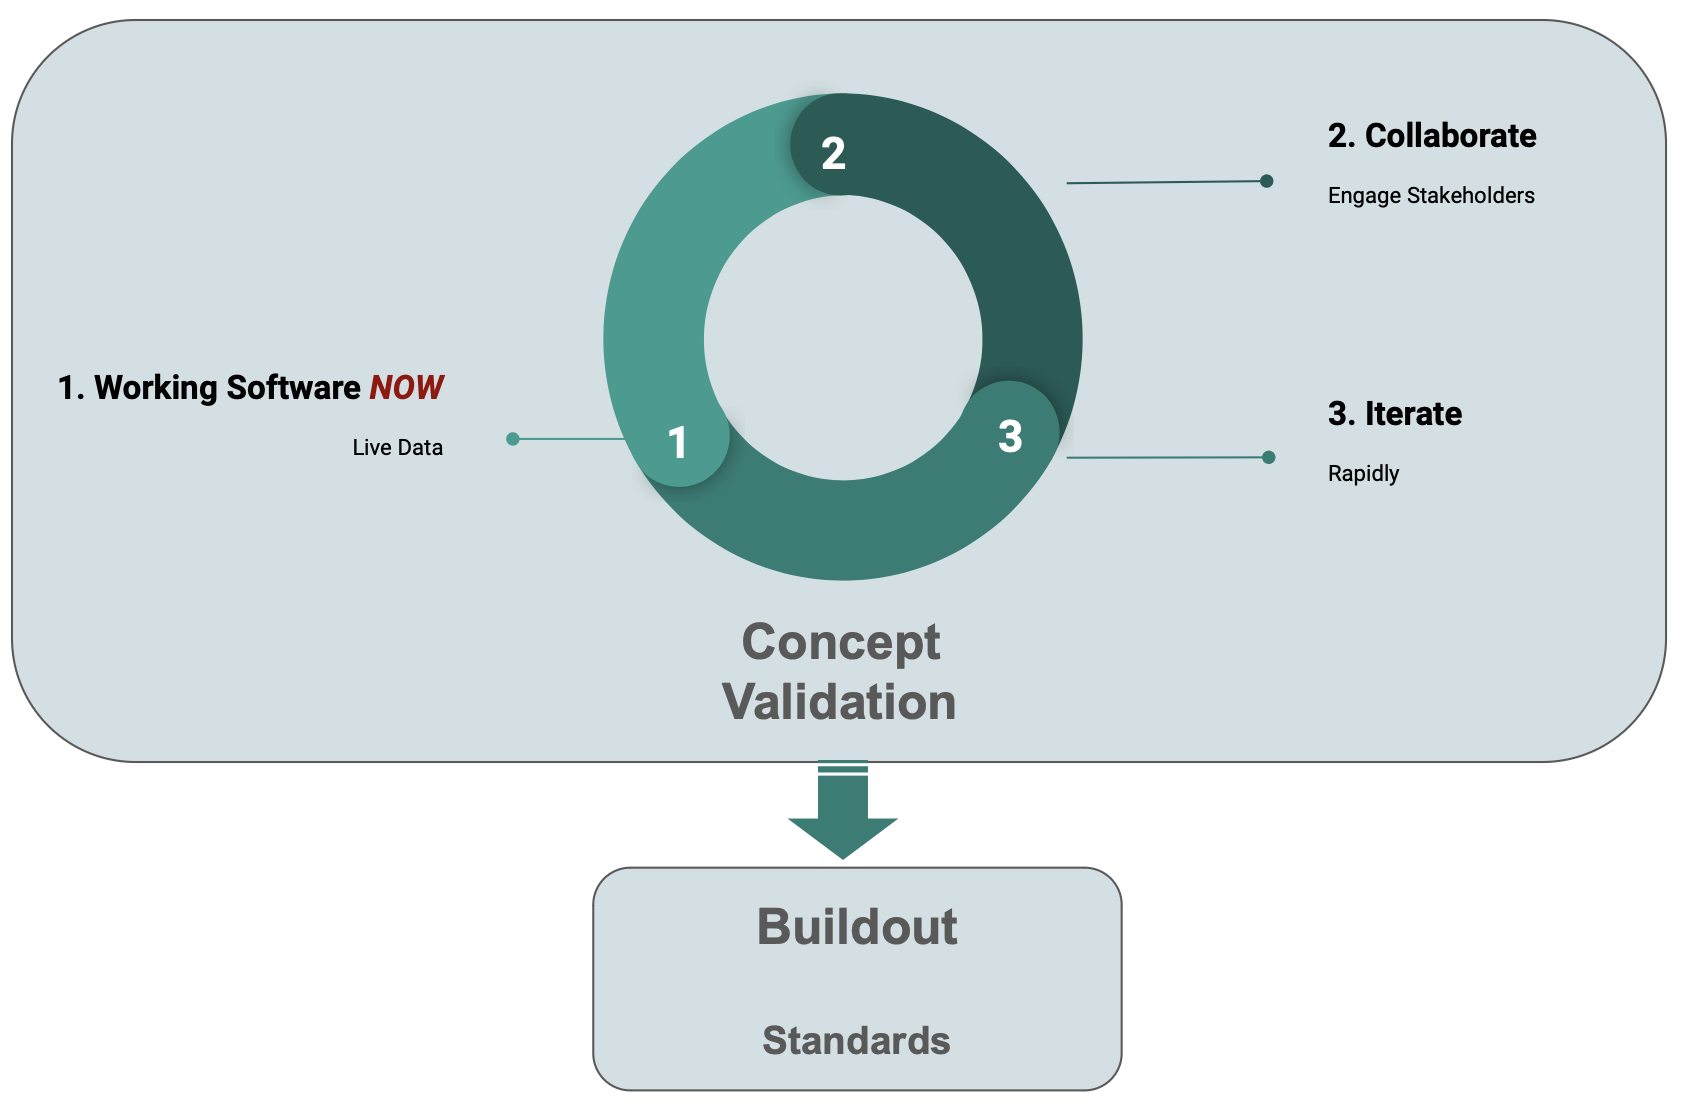
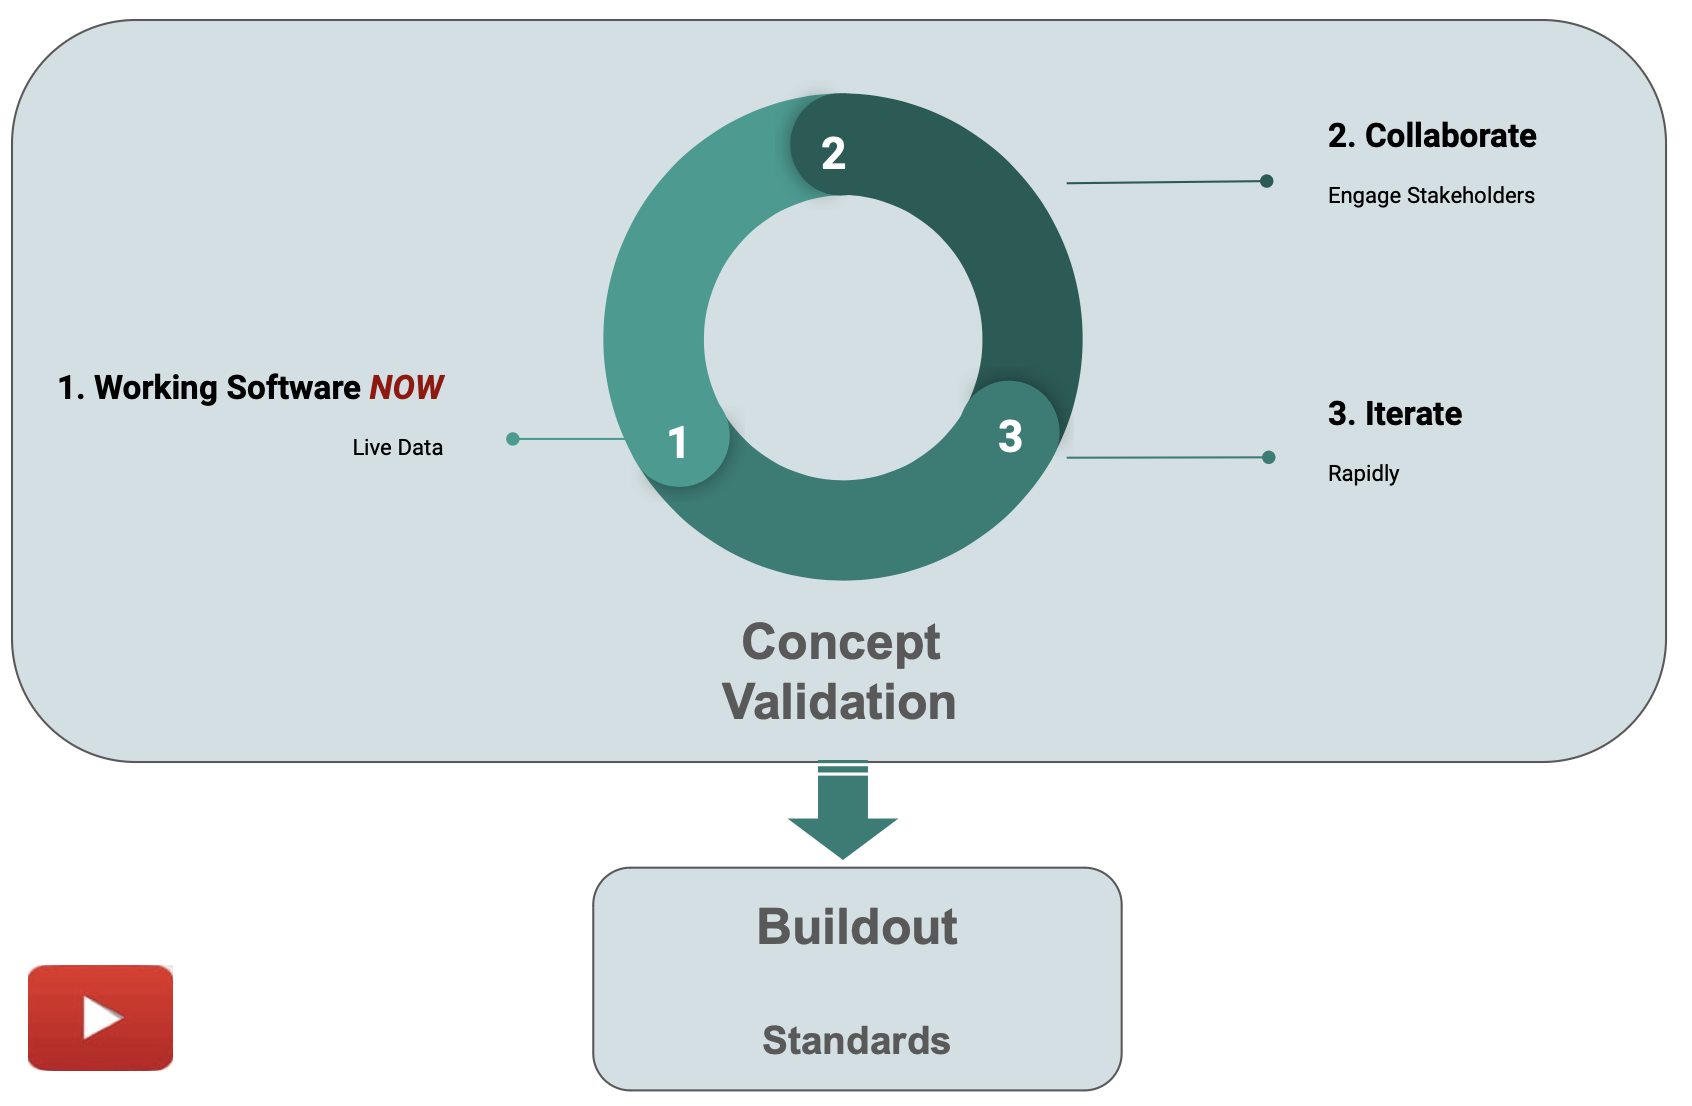
video draft

Changed region(s): [[0.0, 0.8608, 0.1229, 0.9837]]

diff --git a/docs/WebGenAI.md b/docs/WebGenAI.md
@@ -16,4 +16,6 @@ Under construction
 
 https://youtu.be/6HB22ujmSvs
 
-[![Web/GenAI Automation](images/sample-ai/copilot/genai-automation-video-60.png)](https://www.youtube.com/watch?v=6HB22ujmSvs "Microservice Automation"){:target="_blank" rel="noopener"}
+https://github.com/ApiLogicServer/Docs/blob/main/docs/images/web_genai/Concept-Validation.png?raw=true
+
+[![Web/GenAI Automation](images/web_genai/Concept-Validation.png)](https://www.youtube.com/watch?v=6HB22ujmSvs "Microservice Automation"){:target="_blank" rel="noopener"}
